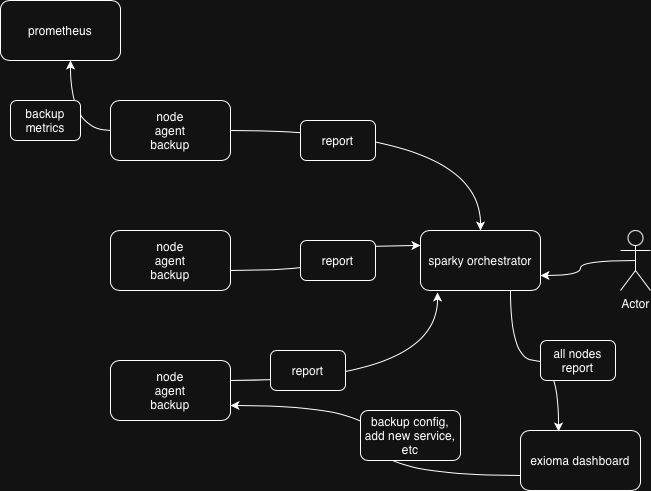
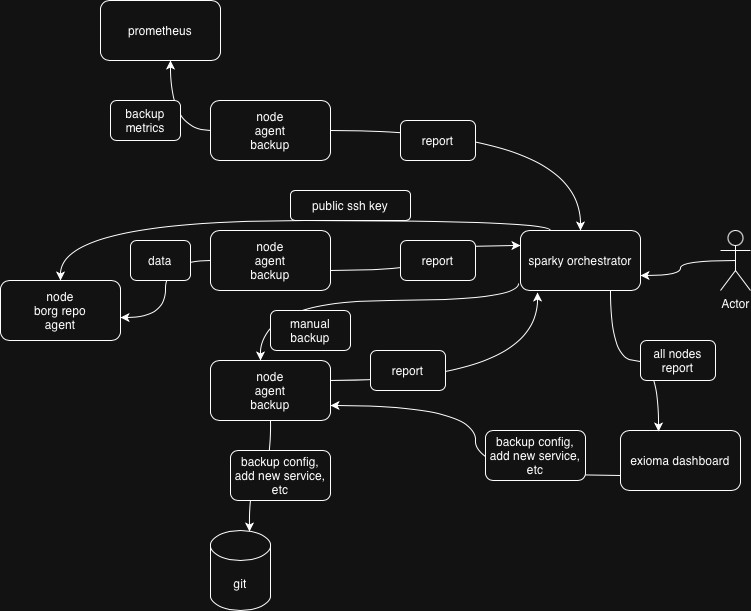
описание дизайна

diff --git a/README.md b/README.md
@@ -7,19 +7,26 @@
 Архитектурная схема
 
 - на всех нодах развернуты sparky агенты которые с переодичностью настраивают и выпонлняют бэкапы
+
 - агенты также гарантируют изначальную настройку borg репозиториев
-- у сервиса требующего бэкап может быть кастомная логика создания бэкапа ( например для сервиса Postgresql сначал бэкап создаетс через pg_dump и потом направляется в borg репозиторий )
+
+- у сервиса требующего бэкап может быть кастомная логика создания бэкапа ( например для сервиса Postgresql сначала бэкап создается через pg_dump и потом направляется в borg репозиторий )
+
 - агенты отправляют данные ( в различном формате ) о бэкапах в sparky оркестратор ( по https протоколу ), орекстратор обрабатывает полученные данные с нод и агрегирует их ввиде различных отчетов, данные также могут перенаправлятся в web консоль exioma для последующего просмотра пользователем, также отчеты можно напрямую смотреть через UI орекстратора
-- при необходимости бэкапа могут быть запущеные в ручном режиме ( например в случае разовых сбоев ) , для это используется sparky окрестартор к которым агенты взаимодейтсвуют в  режиме pull через http очередь
-- конфигурации бэкпов и добавление новых сервсисов в бэкапы происходит запуском ansible плейбуков (бандлов?) через web консоль exioma, в качестве альтернативе можно рассмотреть стягивания обновленных конфигурации на агентах через git (sparky агенты поддерживают это из коробки)
+
+- агенты также настраивают метрик бэкапипования в развернутый внешний прометеус для последующего мониторинга
+
+- при необходимости бэкапы могут быть запущеные в ручном режиме ( например в случае разовых сбоев ) , для этого используется sparky окрестартор с которым агенты взаимодейтсвуют в  режиме pull через http очередь
+
+- конфигурации бэкпов и добавление новых сервсисов в бэкапы происходит посредством запуска ansible плейбуков (бандлов?) через web консоль exioma, в качестве альтернативы можно рассмотреть стягивание обновленных конфигурации на агентах через git (sparky агенты поддерживают это из коробки)
+
 - при необходимости можно запускать распаковку (extract) бэкапов из borg репозиториве посредством запусках тех же ансибл бандлов или через интерфейс Sparky орекстратора
 
-- ssh ключи для доступа к borh репозитариям добавляются через механизм ansible бандлов запущенных на нода с репозиториями, альтернативно можно делать туже самую операцию через Sparky окрестратор - что может быть удобно - когда ключи ротейтся на агенты и агенты отправляют свои обновленные public ключив  окркестатор и орекестратор обнолвняет их на нодах с репозитарями - в это случае мы минимизируем сетевой трафик ( по сравнению со схемой через ансибл ) и делае решение более секьрным ( private части ключей не гоняются по сети )
+- ssh ключи для доступа к borh репозитариям добавляются через механизм ansible бандлов запущенных на нода с репозиториями, альтернативно можно делать туже самую операцию через Sparky окрестратор - что может быть удобно - когда ключи ротейтся прямо на агентах локально и агенты отправляют свои обновленные public ключи в  оркестратор и оркестратор обновляет их на нодах с борг репозитарями - в этом случае мы минимизируем сетевой трафик ( по сравнению со схемой через ансибл ) и делаем решение более секьюрным ( private части ключей не гоняются по сети )
   
 
 
 Security и сетевая схема
 
-
-В данной схеме ноды со sparky агентами недоступы из вне, все взаимодейтсвтие в оркестарторм проихсохит в pull режиме по https, с  аутентефикацией ( SPARKY_API_TOKEN) -  то есть эта схема более безопасная по сравней с тем когда мы обновляется конифигцарции и запускаем бэкапы через ансибл по ssh в push режиме. Также она более масштабируемая (с ростом кол-ва нод) - так как все операции происходят не в одном узком месте ( ansible contole plane) - а в распределленом режиме на нодах, независимости и статусы отсылаются в орекстратор, 
-если нужен ревесивный флоу когда команды шлюься от оркестртора (например при manual backup-ах) то это с точки зрения транспорта это так же обеспечиваются через pull модель - когда агенты постоянно опрашивают очередь оркестратора ( раз в несколько минут ) и получают новые команды
+В данной схеме ноды со sparky агентами недоступы из вне, все взаимодействие с оркестратором происхоид в pull режиме по http/https, с  аутентефикацией ( SPARKY_API_TOKEN ) -  то есть эта схема более безопасная по сравнению с тем когда мы обновляется конифигцарции и запускаем бэкапы через ансибл по ssh в push режиме (все ноды становятся доступными по ssh). Также она более масштабируемая (с ростом кол-ва нод) - так как все операции происходят не в одном узком месте ( ansible contole plane) - а в распределленом режиме на нодах, независимо и статусы отсылаются в орекстратор, 
+если нужен реверсивный флоу когда команды шлются от оркестртора (например при manual backup-ах) то это с точки зрения потока данных это так же обеспечивается через pull модель - когда агенты постоянно опрашивают очередь оркестратора ( раз в несколько минут ) и получают новые команды
